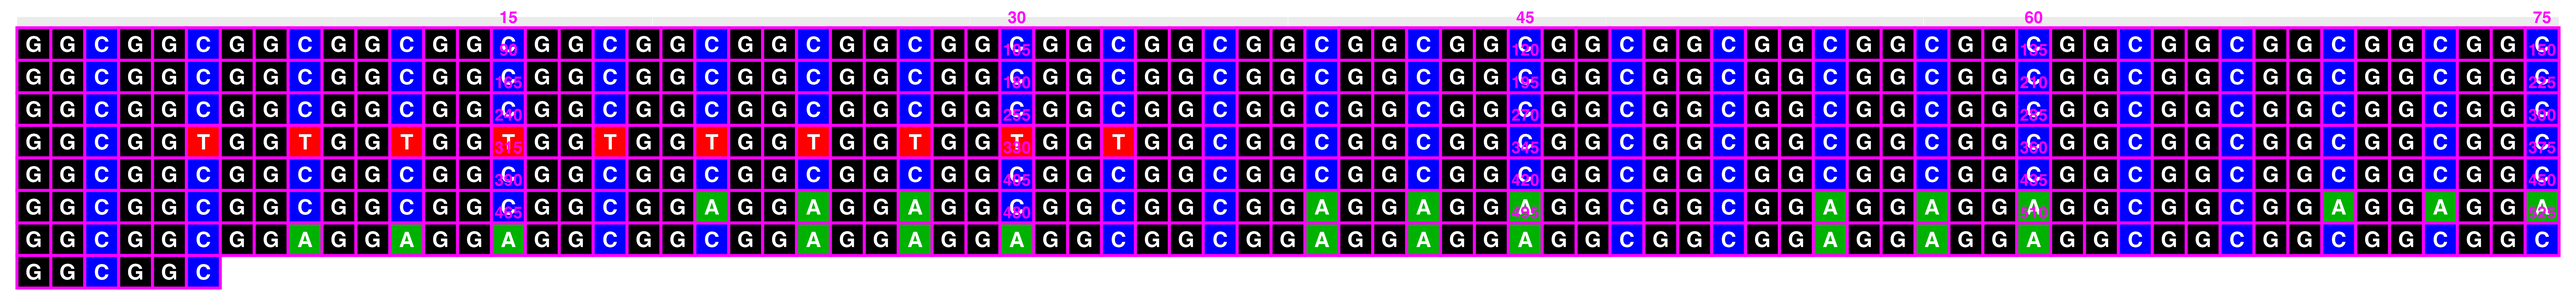
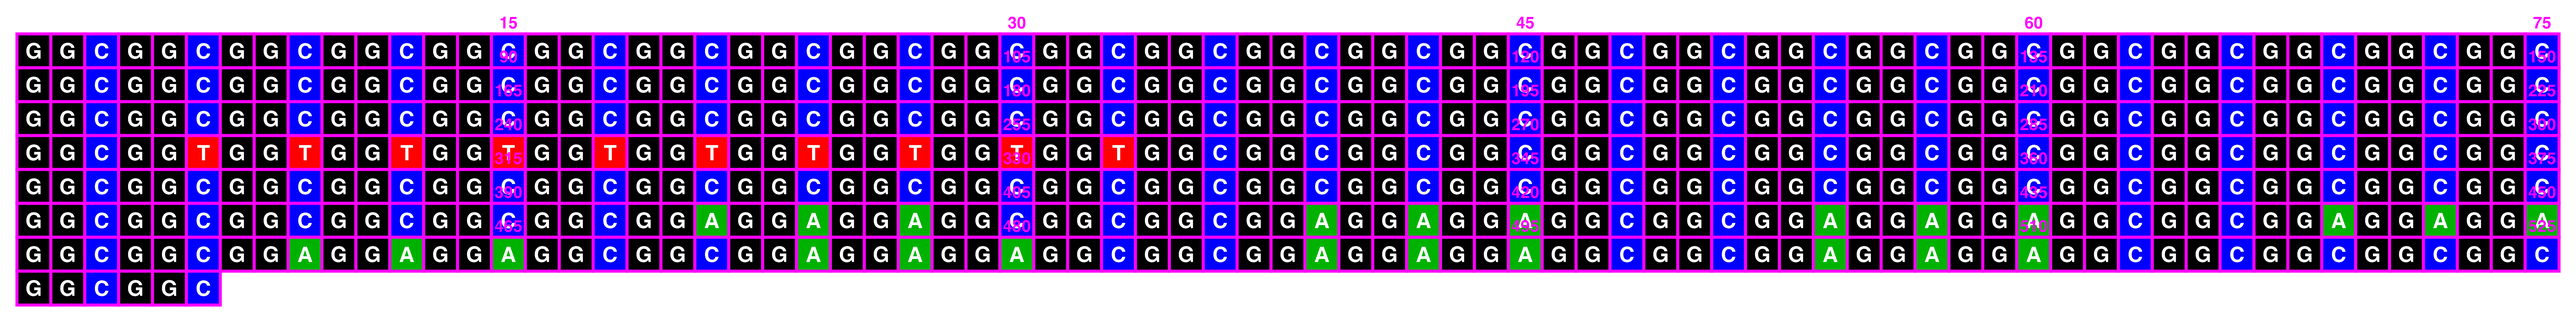
Updated README ahead of v0.3.0

Changed region(s): [[0.0, 0.0311, 0.9979, 0.9022], [0.0, 0.9333, 0.0936, 0.9644]]

diff --git a/NEWS.md b/NEWS.md
@@ -1,8 +1,28 @@
 # ggDNAvis (development version)
 
+Changes:
+
 * Removed raster::raster() dependency
 
 * Added new rasterise_matrix() function to do rasterisation
+
+* Changed convert_input_seq_to_sequence_list() behaviour:
+
+    * Instead of additional spacing lines always being added before or after first line of sequence, there are now independent boolean settings for whether there should be spacing lines before and whether there should be spacing lines after.
+
+Bug fixes:
+
+* Fixed critical error with plot matching lenience on some local linux systems that resulted in tests failing
+
+* Inserted additional padding blank lines above/below with index annotation vertical position > 1 to avoid plot dimensions breaking
+
+Known issues remaining:
+
+* Related to ggplot v4.0.0:
+
+    * Pixel rendering changes means rectangles sometimes fail to render in visualise_methylation_colour_scale(), resulting in the appearance of vertical white lines. This depends on the precision and exact export size.
+    
+    * There is a faint line around the panel area with non-white backgrounds.
 
 # ggDNAvis 0.2.1
 

diff --git a/README.md b/README.md
@@ -86,7 +86,7 @@ install.packages("ggDNAvis")
 devtools::install_github("ejade42/ggDNAvis")
 
 ## Specific version from github
-devtools::install_github("ejade42/ggDNAvis", ref = "v0.2.1")
+devtools::install_github("ejade42/ggDNAvis", ref = "v0.3.0")
 ```
 
 Throughout this manual, only `ggDNAvis`, `dplyr`, and `ggplot2` are
